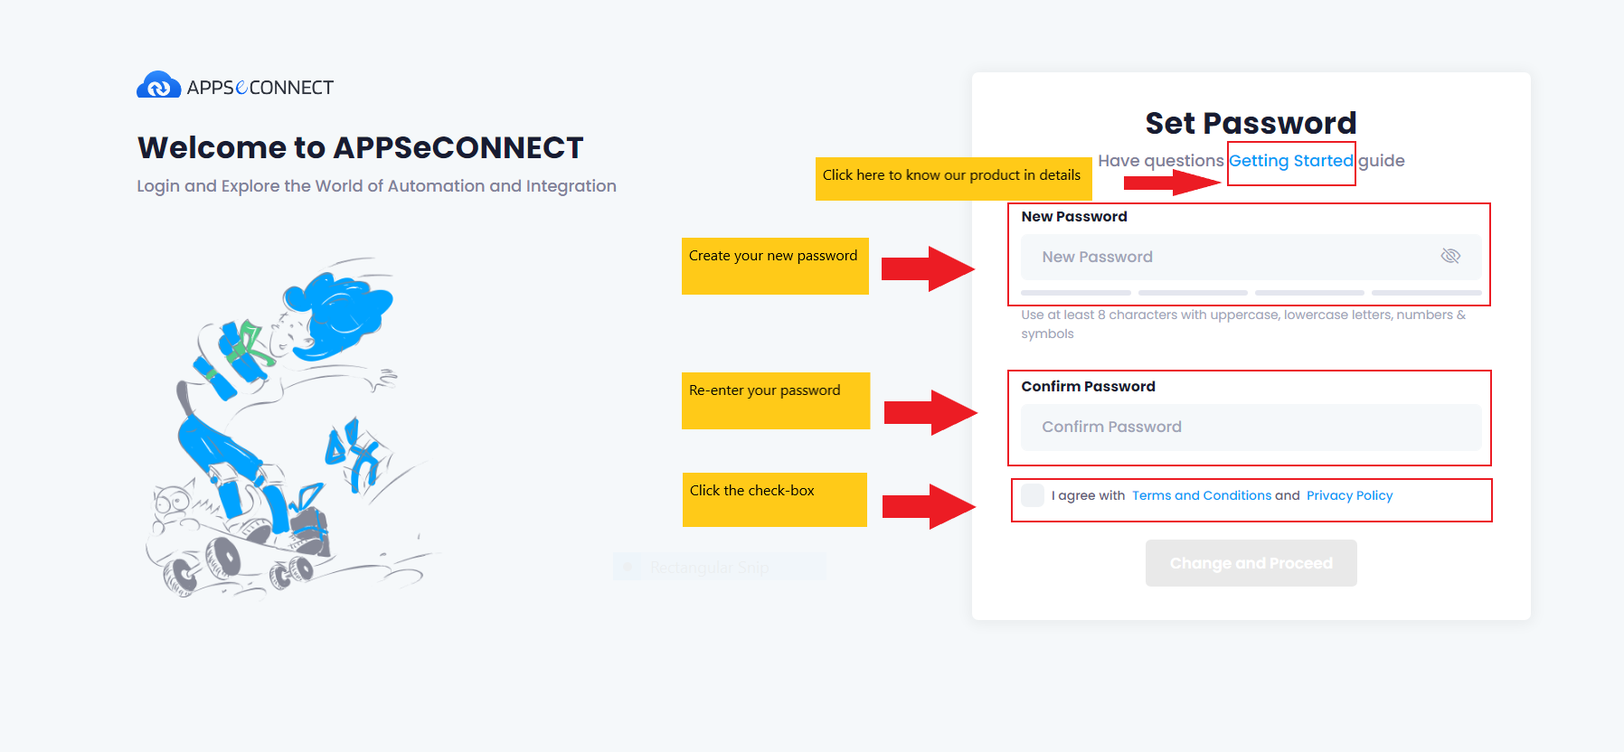
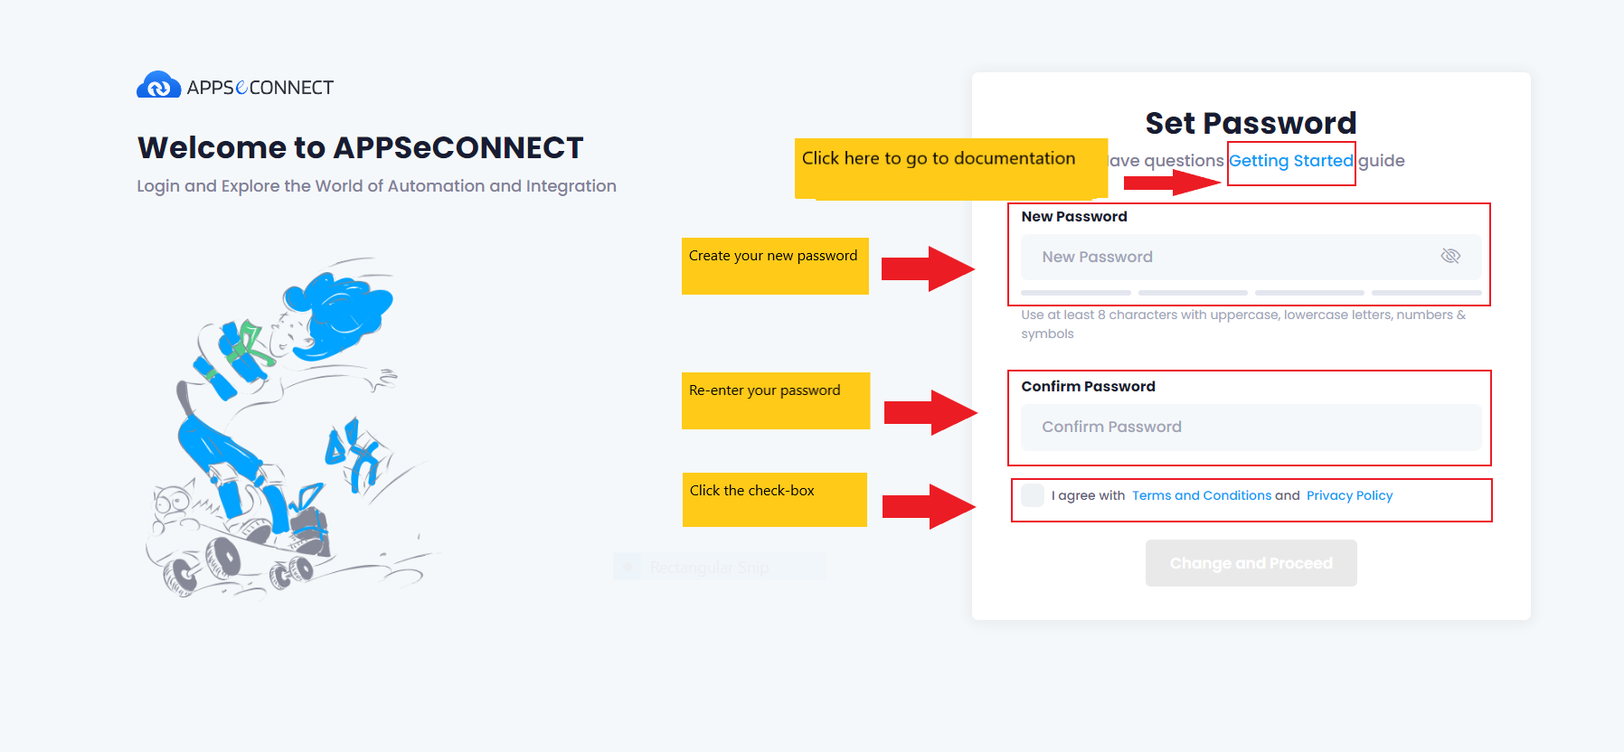
transformation -> getting started and quickstart fixed and ordered propoerly. getting an account image also changed .

Changed region(s): [[0.4677, 0.1562, 0.686, 0.2812]]

diff --git a/_posts/Transformation/Mapping Techniques/Quickstart/2021-11-10-customising-attribute-mapping.md b/_posts/Transformation/Mapping Techniques/Quickstart/2021-11-10-customising-attribute-mapping.md
@@ -8,7 +8,7 @@ category: "Transformation"
 menus: 
     transformationbasic:
         title: "Attribute Mapping of Processflows"
-        weight: 1
+        weight: 2
         icon: fa fa-file-word-o
         identifier: attributemappingprocessflow
 ---
@@ -64,47 +64,52 @@ For the attributes which are not mapped, options available is :
 - Delete Attribute - Enables you to delete the attribute, provided the mapping is not present. 
 - Edit Attribute - You can edit the attribute
 
-On the other hand, for the attributes which are mapped, options available is:
-* Disable - This option is for disabling the mapping, if not required.
-* Open - The mapping window will open, if clicked on Open. Here, you can either map or edit an existing mapping.
-* Clear - This option clears out the existing mapping.
-* Delete Attribute - Deletes the created Attribute.
-* Edit Attribute - Enables you to edit the attribute
+On the other hand, for the attributes which are mapped, options available is :
+
+* Disable - This option is for disabling the mapping, if not required. 
+* Do Mapping - The mapping window will open, if clicked on Do Mapping. Here, you can either map or edit an existing mapping. 
+* Clear - This option clears out the existing mapping. 
+* Delete Attribute - Deletes the created Attribute. 
+* Edit Attribute - Enables you to edit the attribute.
 * Add If - If-Else conditional mapping can be implemented, if clicked on this option. 
-**Note: Pre-packaged attributes will not have the option for Delete and Edit.**
+**Note : Pre-packaged attributes will not have the option for Delete and Edit.** 
 9.	Click on the Edit Attribute button, you will get the following window.
 ![Attributemapping Processflow8](../../staticfiles/processflow/media/mapper/attributemapping-processflow8.png)
 10. Edit the fields as per your requirement and click on the SAVE button.
 Following the above process, you can successfully create and edit an attribute.
 
 ## Implementing Attribute Mapping
+
 1.	Click on the Node Configuration Button of the Mapper node.
 ![Attributemapping Processflow9](../../staticfiles/processflow/media/mapper/attributemapping-processflow9.png) 
-2.	You can view the Transformation screen of the Process Flow. Expand the transformation node for viewing the Schema Object, Complex Object collections, the Complex Object and the Attributes.
+2.	You can view the Transformation window of the Process Flow. Expand the transformation node for viewing the Schema Object, Complex Object collections, the Complex Object and the Attributes.
 ![Attributemapping Processflow10](../../staticfiles/processflow/media/mapper/attributemapping-processflow10.png) 
-3.	Expanding the For-each loop the you will get the view of the node oInvoices.
+3.	Expanding the For-each loop, you will get the view of the node oInvoices.
  ![Attributemapping Processflow11](../../staticfiles/processflow/media/mapper/attributemapping-processflow11.png)
-4.	On expanding oInvoices (Schema Object) you will get the view of the several complex object collections and the attributes that are listed under it. 
+4.	On expanding oInvoices (Schema Object) you will get the view of several complex object collections and the attributes that are listed under it. 
 ![Attributemapping Processflow12](../../staticfiles/processflow/media/mapper/attributemapping-processflow12.png) 
-**Note: Document_Lines will contain the details of the Product in terms of Quantity 
+**Note : Document_Lines will contain the details of the Product in terms of Quantity 
 and Unit Price etc., DocumentsAdditionalExpenses contains the Freight, Tax information etc.** of the product.
 5.	Expand the row to view the destination attributes. 
 ![Attributemapping Processflow13](../../staticfiles/processflow/media/mapper/attributemapping-processflow13.png) 
 6.	Click on the Ellipses (...) button beside the attribute , you can view the following option in the context menu. 
-For the attributes which are not mapped, options available is:
-a.	 OPEN
-b.	 ADD IF
-For the attributes which are mapped, options available is:
-*	Disable -This option is for disabling the mapping, if not required.
-*	Open - The mapping window will open, if clicked on Open. Here, you can either map or edit an existing mapping.
-*	Clear - This option clears out the existing mapping.
-*	Add If - If-Else conditional mapping can be implemented, if clicked on this option. Click here to know more
-Note: Custom Attributes create by you will have extra options in the context menu. Click Here (Attribute Creation) to know more about Custom Attributes.
-7.	Click on the Ellipses (...) button beside the attribute and select the option OPEN button from the Context menu. You will be able to view the Mapping window.
+For the attributes which are not mapped, options available is :
+
+-	Do Mapping - The mapping window will open, if clicked on Do Mapping. Here, you can either map or edit an existing mapping.
+-	Add If - If-Else conditional mapping can be implemented, if clicked on this option.
+
+For the attributes which are mapped, options available is :
+
+*	Disable - This option is for disabling the mapping, if not required. 
+*	Do Mapping - The mapping window will open, if clicked on Do Mapping. Here, you can either map or edit an existing mapping. 
+*	Clear - This option clears out the existing mapping. 
+*	Add If - If-Else conditional mapping can be implemented, if clicked on this option. 
+Note : Custom Attributes create by you will have extra options in the context menu. Click Here (Attribute Creation) to know more about Custom Attributes.
+7.	Click on the Ellipses (...) button beside the attribute and select the option Do Mapping button from the Context menu. You will be able to view the Mapping window.
  ![Attributemapping Processflow14](../../staticfiles/processflow/media/mapper/attributemapping-processflow14.png)
 8.	 The mapping window has multiple sections and fields. Expanding the nodes in the Source Field section displays the appresource functions and the source attributes that is required for the mapping. On expanding the Source Schema Object node (in this case invoice) displays all the source attributes.
  ![Attributemapping Processflow15](../../staticfiles/processflow/media/mapper/attributemapping-processflow15.png)
-9.	Expanding the node FUNCTION, you can view all the functions listed under Generic Source, Destination and Cloud Appresources.
+9.	Expanding the node FUNCTION, you can view all the functions listed under Generic, Source, Destination and Cloud Appresources.
 ![Attributemapping Processflow16](../../staticfiles/processflow/media/mapper/attributemapping-processflow16.png) 
 10.	Clicking on any of the functions, will display it in the mapping panel. Once the mapping is done, Click Save button for Enabling and Saving the mapping.
 
@@ -116,6 +121,7 @@ of the XML standardisation.**
 Following the above process, you can successfully map attributes in Process Flow Mapper Node.
 
 ## Implementing Attribute Sorting in Mapper Node
+
 1.	For any attributes that needs to be enabled for sorting, you at least need to save a blank mapping.
 2.	Attributes and variables with no mapping will neither be allowed to sort in the mapping tree, nor will it be displayed in the XSLT preview.
 3.	You can sort the order of attributes and variables in the mapping page by dragging and dropping the same under its parent only if the mapping for the attribute has been done or if it is blank.

diff --git a/_posts/Transformation/Mapping Techniques/Quickstart/2021-11-15-namespace-mapper.md b/_posts/Transformation/Mapping Techniques/Quickstart/2021-11-15-namespace-mapper.md
@@ -1,30 +1,34 @@
 ---
 title: "Defining & Implementing Namespace"
 toc: true
+description: "Create and Use namespace to uniquely identify entities with same name."
+keywords: "Namespace, namespace, Defining & Implementing Namespace"
 tag: developers
-category: "Processflow"
+category: "Transformation"
 menus: 
-    mapperprocessflow:
+    transformationbasic:
         title: "Defining & Implementing Namespace"
-        weight: 6
+        weight: 5
         icon: fa fa-file-word-o
         identifier: namespaceprocessflow
 ---
 
 [Namespace](https://www.w3schools.com/xml/xml_namespaces.asp) is a technique that defines a set of unique names within an XML file, consisting of several XML elements such that if two entity has the same name, declaring Namespace will provide a unique identification to the element where the namespace is declared.
-Declaring a namespace requires to provide a Prefix and an URI (U]niform Resource Identifiers) for identifying the work of the element declared. All the descendants with the element would be identified with the prefix provided. 
+Declaring a namespace requires to provide a Prefix and an URI (Uniform Resource Identifiers) for identifying the work of the element declared. All the descendants with the element would be identified with the prefix provided. 
 
 
 ## Prerequisites for adding Namespace in Portal
 
 * You need to have valid credentials of the portal.
-* You need to navigate to the [Process Flow listing page](/processflow/processflow-listing-page/) for creating or editing a Process Flow
-* You need to [create a Process Flow](/processflow/creating-processflow/) or Edit an existing process flow for implementing Namespace in Mapper node. 
+* You need to navigate to the [Process Flow listing page](/processflow/processflow-listing-page/) for creating or editing a Process Flow. 
+* You need to [create a Process Flow](/getting%20started/create-your-first-processflow/) or Edit an existing process flow for implementing Namespace in Mapper node. 
+
 ## Steps to define Namespace in Mapper Node of Process Flow
 
 1.	Create a New Process Flow or Edit an existing Process Flow for implementing Namespaces. 
-You can view the Process Flow Designer Page. Click on the Node Configuration button for the Mapper node after link the application nodes for viewing the mapper window.
+You can view the [Process Flow Designer Page](/processflow/components-of-processflow/). Click on the Node Configuration button for the Mapper node after linking the application nodes for viewing the mapper window.
  ![Namespace1](../../staticfiles/processflow/media/mapper/namespace1.png)  
+
 2.	Expand the Transformation node to view the Namespace Button.
  ![Namespace2](../../staticfiles/processflow/media/mapper/namespace2.png)  
 3.	Click on the Ellipses(...) beside the Namespace button. You will be able to view the button Explore Namespaces.
@@ -32,13 +36,13 @@ You can view the Process Flow Designer Page. Click on the Node Configuration but
 4.	You can view the Namespace window after clicking on the Explore Namespace button. Click on the New button. You can view the fields for entering Prefix & URL appears.
  ![Namespace4](../../staticfiles/processflow/media/mapper/namespace4.png)  
 5.	Enter the Prefix & the URL from providing a reference to namespace. On the Actions column you will be able to view button for SAVE and Delete. Click on the SAVE button.
-* Prefix: a name to the Namespace.
-* URL: A reference that provides a unique identity to the namespace.
+* Prefix : Enables you to provide a name to the Namespace. 
+* URL : A reference that provides a unique identity to the namespace.
 ![Namespace5](../../staticfiles/processflow/media/mapper/namespace5.png)  
 6.	Click on the Preview Button to view the XSLT file. You can view the namespace in the header region of the XSLT.
 ![Namespace6](../../staticfiles/processflow/media/mapper/namespace6.png)   
-Note: The Preview button would be available as per your Organisation Role.
-7.	You can map attributes with namespace by providing the given syntax in the image below. Click here to know more about the mapping attributes. Click on the SAVE button after implementing the mapping.
+**Note : The Preview button would be available as per your Organisation Role.**
+7.	You can map attributes with namespace by providing the given syntax in the image below. [Click here](/transformation/basic-of-source-destination-mapping/) to know more about the mapping attributes. Click on the SAVE button after implementing the mapping.
 ![Namespace7](../../staticfiles/processflow/media/mapper/namespace7.png)  
 
 Following the above the process, you can successfully create and define a namespace as per your requirement.

diff --git a/_posts/Transformation/Mapping Techniques/Quickstart/2021-11-13-xpath-in-processflow-mapping.md b/_posts/Transformation/Mapping Techniques/Quickstart/2021-11-13-xpath-in-processflow-mapping.md
@@ -1,12 +1,14 @@
 ---
 title: "Implementing Xpath in Mapping"
 toc: true
+description: "Know how to implement Xpath in mapping."
+keywords: "implementing xpath, xpath mapping"
 tag: developers
-category: "Processflow"
+category: "Transformation"
 menus: 
-    mapperprocessflow:
+    transformationbasic:
         title: "Implementing Xpath in Mapping"
-        weight: 5
+        weight: 3
         icon: fa fa-file-word-o
         identifier: xpathnmappingprocessflow
 ---
@@ -16,29 +18,29 @@ nodes in a hierarchical structure as represented in the XML file.
 
 ## Pre-requisites for implementing Xpath in Mapping
 * Login to the APPSeCONNECT Portal with valid credentials.
-* Navigate to the [Process Flow Listing Section](/processflow/processflow-listing-page/). Here You can view the list of existing Process Flows.
-* [Create a New Process Flow](/processflow/creating-processflow/) or Edit an existing Process Flow.
-* If you are using [Tech app](/configuring%20appseconnect/configurations/#b-technology-app-creation) and [Custom app](/configuring%20appseconnect/configurations/#a-create-custom-app) create the app prior to designing process flow.
+* Navigate to the [Process Flow Listing Section](/processflow/processflow-listing-page/). Here you can view the list of existing Process Flows.
+* [Create a New Process Flow](/getting%20started/create-your-first-processflow/) or Edit an existing Process Flow.
+* If you are using [Tech App](/connectors/technology-app-creation-using-processflow/) or **Custom App** create the app prior to designing process flow.
 
 
 ## Basic Flow
 1.	Navigate to the processflow from [process flow listng page](/processflow/processflow-listing-page/), for which the Mapping is to be done.
-2.	Click on the Mapper node on the processflow you have selected. The user will now be able to view the Transform screen of that processflow.  
+2.	Click on the Mapper node on the processflow you have selected. The user will now be able to view the Transformation window of that processflow.  
 ![Xpath Mapping Processflow1](../../staticfiles/processflow/media/mapper/xpath-mapping-processflow1.PNG)  
-3.	Expand the Transform node till the Complex Objects and the ComplexObjectsCollections are visible.  
-**Note: In this case the processflow Business Partner add is used for the connection Magento2 and SAP B1.**
+3.	Expand the Transformation node till the Complex Objects and the ComplexObjectsCollections are visible.  
+**Note : In this case the processflow Business Partner add is used for syncing data between Magento2 and SAP B1.**
 4.	In the ComplexObject `BPAddresses`, XPATH has been provided for mapping the attribute Street.  
 ![Xpath Mapping Processflow2](../../staticfiles/processflow/media/mapper/xpath-mapping-processflow2.PNG)  
-**Note: The XPATH should be provided based upon the INPUT packet generated after the sync process. As a prerequisite, the processflow should be deployed and executed for viewing the XML nodes structure hierarchy.**  
+**Note : The XPATH should be provided based upon the INPUT packet generated after the sync process. As a prerequisite, the processflow should be deployed and executed for viewing the XML nodes structure hierarchy.**  
 5. The XPATH mapped is `{ {street/item[1]} }`. [1] indicates the first position instance of the node item under 
    the element street shall be accessed.
 6.	For easy know-how, view the input packet provided below.
 ![xpath-usecase2](/staticfiles/Transformation/media/xpath-usecase2.png)
 
-**ProTip:** XPATH can be mapped in any entity, be it a ComplexObject, ComplexObjectCollection or an attribute. XPATH can be used for mapping in variables too
+**ProTip:** XPATH can be mapped in any entity, be it a ComplexObject, ComplexObjectCollection or an attribute. XPATH can be used for mapping in variables too.
 {: .notice--info}
 
-The user can view the successful sync of the processflow for the connection Magento2 and SAP Business One.
+The user can view the successful sync of the processflow for the integration between Magento2 and SAP Business One.
 The user can implement rendering when required for any process flow.
 [Click Here](/transformation/troubleshooting/) to know more about the troubleshootings. 
 

diff --git a/_posts/Transformation/Mapping Techniques/Quickstart/2021-11-18-advance-mapping-render-processflow.md b/_posts/Transformation/Mapping Techniques/Quickstart/2021-11-18-advance-mapping-render-processflow.md
@@ -1,45 +1,47 @@
 ---
 title: "Advance Mapping through Custom Renderer"
 toc: true
+description: "Get to know about Custom Rendering feature."
+keywords: "custom renderer"
 tag: developers
-category: "Processflow"
+category: "Transformation"
 menus: 
-    mapperprocessflow:
+    transformationbasic:
         title: "Advance Mapping through Custom Renderer"
         weight: 7
         icon: fa fa-file-word-o
         identifier: rendererprocessflow
 ---
 
-Renderer enables the user to alter the default XML structure which and when required
+Renderer enables the user to alter the default XML structure as and when required
 through rendering. In case of Complex Attribute Mapping, Rendering makes the 
 procedure easy and adaptable to the environment.
 
-## Prerequisites for adding Render Process Flow Mapper Node
+## Prerequisites for adding Renderer
 
 * You need to have valid credentials of the portal.
-* You need to navigate to the [Process Flow listing page](/processflow/processflow-listing-page/) for creating or editing a Process Flow
-* You need [create a Process Flow](/processflow/creating-processflow/) or Edit an existing process flow for implementing rendered in mapping.
+* You need to navigate to the [Process Flow listing page](/processflow/processflow-listing-page/) for creating or editing a Process Flow.
+* You need [create a Process Flow](/getting%20started/create-your-first-processflow/) or Edit an existing process flow for implementing rendered in mapping.
 * You need to know about the packet structure of the destination application.
 
 ## Steps to implement Renderer in Process Flow Mapper Node
 
-1.	Navigate to the Process Flow designer page and click on the Node configuration button of Mapper Node.
-![Processflow Renderer1](../../staticfiles/processflow/media/mapper/processflow_renderer1.png)  
-2.	The Mapper Window opens. Expand the Transformation window, click on the Ellipses (...) beside the button Renderer to view the option Add Renderers in the context menu.
-![Processflow Renderer2](../../staticfiles/processflow/media/mapper/processflow_renderer2.png)  
+1.	Navigate to the Process Flow designer page, open a processflow and click on the Node configuration button of Mapper Node.
+![Processflow Renderer1](../../staticfiles/processflow/media/mapper/customrenderer1.png)  
+2.	The Mapper Window opens. Expand the Transformation node, click on the Ellipses (...) beside the button Renderer to view the option Add Renderers in the context menu.
+![Processflow Renderer2](../../staticfiles/processflow/media/mapper/customrenderer2.png)  
 3.	You can view the Renderer window. Default Rendering is the structure that shows that if there is no rendering, the Default Rendering Structure provided, would be implemented.
 ![Processflow Renderer3](../../staticfiles/processflow/media/mapper/processflow_renderer3.png)  
 4.	Provide the Renderer Name. The user can click on the button TargetExpressions ([property]) and SourceExpressions ([value]) to get the syntax for mapping. Input the expression as how the rendering needs to be done and Click on the SAVE button.
 ![Processflow Renderer4](../../staticfiles/processflow/media/mapper/processflow_renderer4.png)  
 **Rendering will only be implemented, if the provided expression is supporting the XML standard. 
 Structure that does not represents XML structure will display error while saving.**
-5.	Navigate to the Schema whose [attribute](/processflow/customising-attribute-mapping/) you need to map. 
+5.	Navigate to the Schema whose [attribute](/processflow/processflow-app/#listing-of-schemas-and-attributes) you need to map. 
 6.	Open the Attribute to view the mapping window where you need to implement the Renderer. Enable the Checkbox for Choose Renderer & Select the created Renderer from the drop-down. 
 ![Processflow Renderer5](../../staticfiles/processflow/media/mapper/processflow_renderer5.png)  
 7.	Once the renderer is enabled and selected, click on the SAVE button.
 
-Following the process, you can successfully implement Renderer to a mapper node.
+Following the above process, you can successfully implement Renderer to a mapper node.
 
 
 

diff --git a/_posts/Transformation/Mapping Techniques/Quickstart/2021-11-16-defining-variables-in-processflow-mapping.md b/_posts/Transformation/Mapping Techniques/Quickstart/2021-11-16-defining-variables-in-processflow-mapping.md
@@ -1,12 +1,12 @@
 ---
 title: "Defining Variables in Mapping"
-toc: false
+toc: true
 description: "Get to know about mapping variables and its implementation."
 keywords: "mapping variable"
 tag: developers
-category: "Processflow"
+category: "Transformation"
 menus: 
-    mapperprocessflow:
+    transformationbasic:
         title: "Defining Variables in Mapping"
         weight: 6
         icon: fa fa-file-word-o
@@ -28,7 +28,7 @@ Here The flow is explained using `Root Variable` for a processflow.
 * You need to navigate to the [Process Flow listing page](/processflow/processflow-listing-page/) for creating or editing a ProcessFlow. 
 * You need to have the basic ideas of defining the logics in [mapper node](/processflow/working-with-mapper/).
  
-#### Adding Variables
+### Adding Variables
 
 1. Open a processflow from [Process Flow listing page](/processflow/processflow-listing-page/). 
 Click on the Node Configuration button of the Mapper node. The Mapping Configuration window opens up where you can provide the necessary mapping for your business integration. 
@@ -45,7 +45,7 @@ Data type -  Bool, Datetime, Number and Double.
 
 Once the details are filled, click Save. 
 
-#### Mapping for Variables
+### Mapping for Variables
 
 1. For Mapping the variable, expand the ellipsis corrosponding to the variable that you have created. Click on **Do Mapping** and the mapping window appears. 
 2. In the mapping window, implement the mapping for corrosponding variable. Select the function from the `Functions List` and click on the function as required.   
@@ -56,7 +56,7 @@ Once the details are filled, click Save.
 
 The user can view the successful sync of the processflow for which the Variables was created.
 
-#### Deleting variable
+### Deleting variable
 
 The user can delete the Variables whenever required, any-time after its creation. 
 Expand the ellipsis of a variable and click on `Delete Variable` button. A pop-up will appear, on clicking `Yes` the variable will be deleted. A toaster message will be displayed at the botton right corner confirming the deletion of the selected variable. Else, click `No` to abort the deletion process. 
@@ -64,7 +64,7 @@ Expand the ellipsis of a variable and click on `Delete Variable` button. A pop-u
 
 >You need to remove the mapping corrosponding to the variable, in order to delete the varaible.
 
-#### Editing Varibale
+### Editing Varibale
 
 The user can edit the variables defined any-time after its creation by clicking on `Edit Variable` button. 
 
@@ -74,7 +74,7 @@ Expand the ellipsis of a variable and click on `Edit Variable` button.
 Make the necessary changes in **Variable Name**, **Data Type**, **Scope**, **Default Value**, **Is Persistant** and **Is Encrypted**. Click on **Save** and the changes will be reflected.
 ![mapping_variable6](../../staticfiles/processflow/media/mapper/mappingvariable_6.png)
 
-#### Attribute Mapping with Mapping Variable
+### Attribute Mapping with Mapping Variable
 
 Since mapping variables is used to store the value temporarily in a transformation process, so you can use 
 the mapping variables in attribute mapping by following the below mentioned steps.
@@ -84,7 +84,7 @@ the mapping variables in attribute mapping by following the below mentioned step
 ![mapping_variable7](../../staticfiles/processflow/media/mapper/mappingvariable_7.png)
 
 3. Click `+` to expand Mapping Variables. Select any variable under `Mapping Variables` and click on **Save**. 
-You will observe the mapping variable in the transformation window corrosponding to the selected attribute.
+You will observe the mapping variable in the transformation window corresponding to the selected attribute.
 ![mapping_variable8](../../staticfiles/processflow/media/mapper/mappingvariable_8.png)
 
 >[Click here](/processflow/working-with-variable/) to know the procedures of creating, editing and deleting variables in a processflow. 

diff --git a/_posts/Getting-Started/2021-07-03-getting-an-account.md b/_posts/Getting-Started/2021-07-03-getting-an-account.md
@@ -63,7 +63,7 @@ temporary password generated, which you can use to login to the account.
 - Link for APPSeCONNECT Community will enable you to stay connect with the APPSeCONNECT Community for quick support and discussions.
 ![newcustomer_registration3](/staticfiles/root/media/newcustomer_registration3.png)  
 2.	Clicking on `Activation link` will activate the created account. User will now be directed to a new window where you need to create your password meeting our password generation criteria. 
-3.	You need to accept the `terms and conditions` along with the `Privacy Policy` to login to APPSeCONNECT portal. Once you click on **Getting Started**, you will be directed to `APPSeCONNECT` documentation portal.   
+3.	You need to accept the `terms and conditions` along with the `Privacy Policy` to login to APPSeCONNECT portal. Once you click on [Getting Started](/getting%20started/overview/), you will be directed to `APPSeCONNECT` documentation portal.   
 ![newcustomer_registration41](/staticfiles/root/media/newcustomer_registration41.png)  
 4.	Once the necessary details are filled up, click on `Change and Proceed`.  
 5.	A message will be displayed notifying you that the password has been set successfully. Click on `Continue to APPSeCONNECT`.  

diff --git a/_posts/Transformation/Mapping Techniques/Quickstart/2021-11-19-Working-with-functions.md b/_posts/Transformation/Mapping Techniques/Quickstart/2021-11-19-Working-with-functions.md
@@ -4,9 +4,9 @@ description: "Learn how to use our default and user defined functions."
 keywords: "generic function, native function, user-defined function, cloud function"
 toc: true
 tag: developers
-category: "Processflow"
+category: "Transformation"
 menus: 
-    mapperprocessflow:
+    transformationbasic:
         title: "Working with Functions"
         weight: 8
         icon: fa fa-file-word-o

diff --git a/_posts/Transformation/Mapping Techniques/Quickstart/2021-11-14-steps-to-define-logic-over-destination-mapping.md b/_posts/Transformation/Mapping Techniques/Quickstart/2021-11-14-steps-to-define-logic-over-destination-mapping.md
@@ -8,7 +8,7 @@ category: "Transformation"
 menus: 
     transformationbasic:
         title: "Steps to Define logic over Destination Mapping"
-        weight: 2
+        weight: 4
         icon: fa fa-file-word-o
         identifier: definelogicdestinationmapping
 ---
